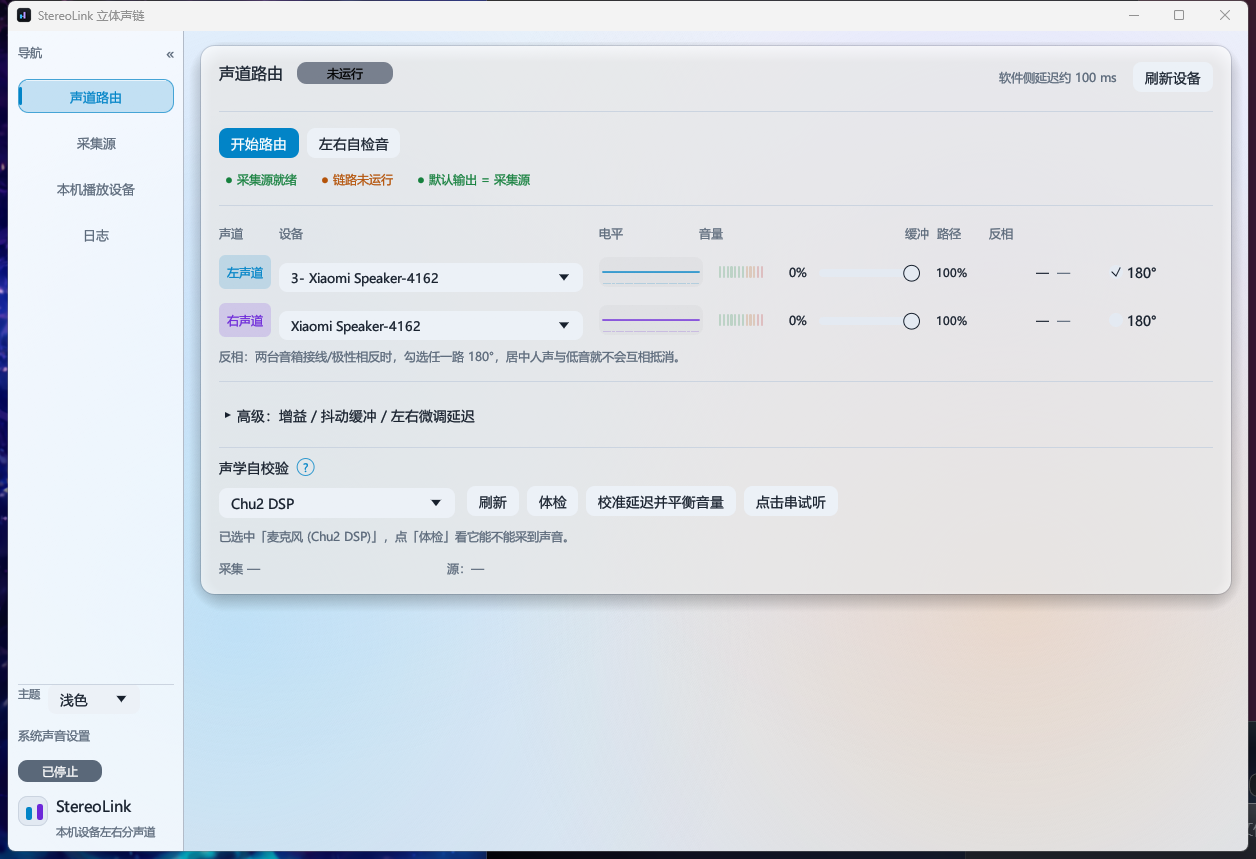
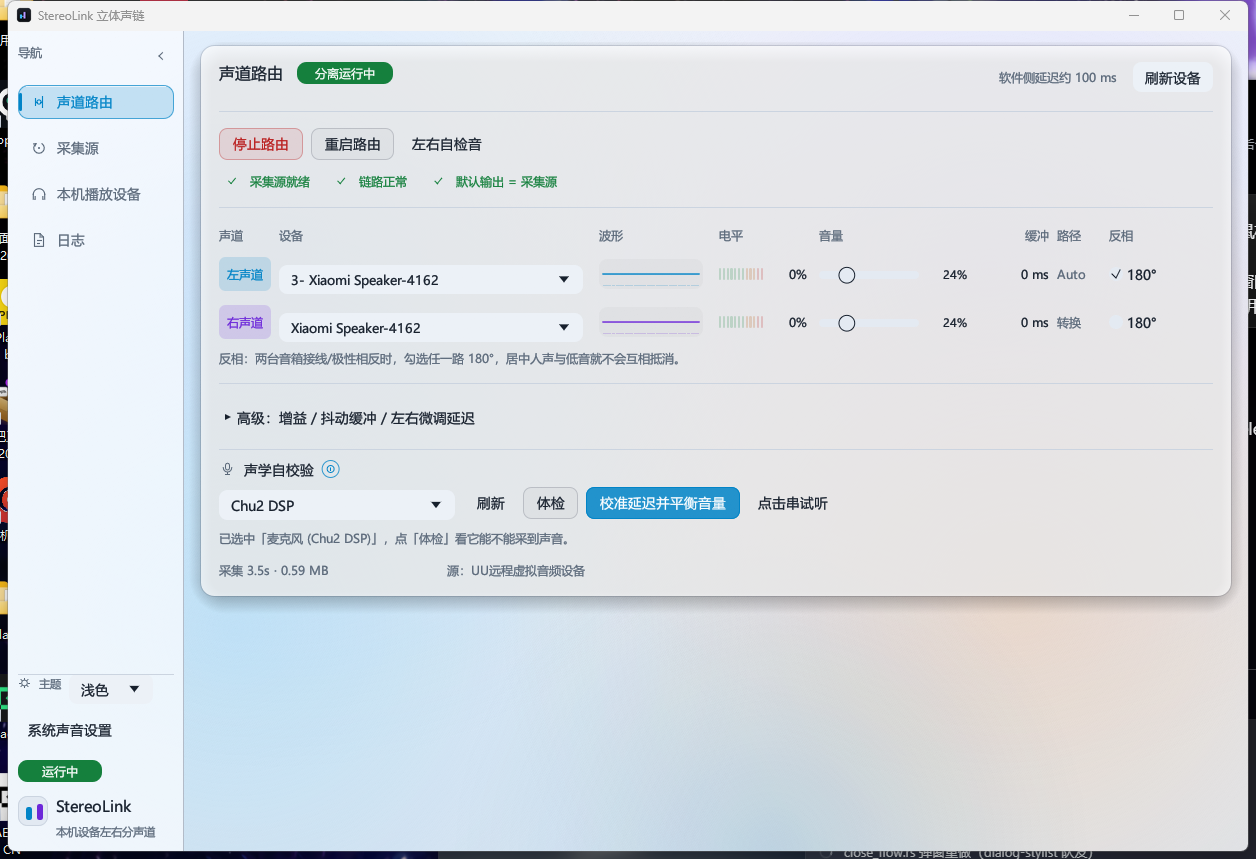
docs: 用 0.5.2 实机截图替换界面图，新增交互状态拼图
- gui.png / gui-light.png 重拍（深色 33.7 / 浅色 233.6 标题栏，SetTheme 生效）
- 新增 gui-states.png：按钮扫光 / 卡片流光 / 波形 tooltip / 波形暂停 / toast / 关闭确认框
- docs/gui.md 引用状态拼图并逐个说明
- 修行内波形 tooltip 文案：「左声道声道」重复了「声道」二字

diff --git a/crates/stereo-link/src/app.rs b/crates/stereo-link/src/app.rs
@@ -3552,7 +3552,8 @@ impl StereoLinkApp {
                         toggle_wave_pause = true;
                     }
                     resp.on_hover_text(format!(
-                        "{chan_name}声道 · 峰值 {peak_db:.1} dBFS\n点击{}波形动画（不影响声音）",
+                        // chan_name 本身已经带「声道」二字（左声道 / 右声道），这里不要再拼一次。
+                        "{chan_name} · 峰值 {peak_db:.1} dBFS\n点击{}波形动画（不影响声音）",
                         if wave_paused { "恢复" } else { "暂停" }
                     ));
                 },

diff --git a/docs/gui.md b/docs/gui.md
@@ -103,6 +103,13 @@
 
 ![浅色主题](images/gui-light.png)
 
+几种瞬时状态拼在一起（每格都是实机抓图，右上角标注了源帧）：
+
+![交互状态](images/gui-states.png)
+
+从左到右、从上到下：主按钮悬停时的扫光带、卡片悬停时的描边提亮与沿边流光、行内波形悬停出的
+峰值读数、行内波形被点停后的播放标记、「重启路由」后的 toast、以及关闭窗口时的确认框。
+
 ## 侧边栏与四个页面
 
 左侧「导航」栏是页面入口，底部「收起侧边栏」可把它收成只留图标的窄条（路由 / 采集 / 设备 / 日志
